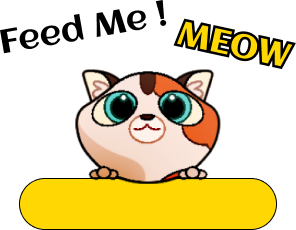
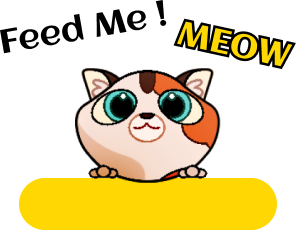
feat: update on off image

diff --git a/style.css b/style.css
@@ -53,7 +53,7 @@ p {
   height: 100%;
   background: url("/1.png") no-repeat;
   background-position: center;
-  background-size: cover;
+  background-size: contain;
   position: absolute;
   top: 100%;
   transition: top 0.3s;
